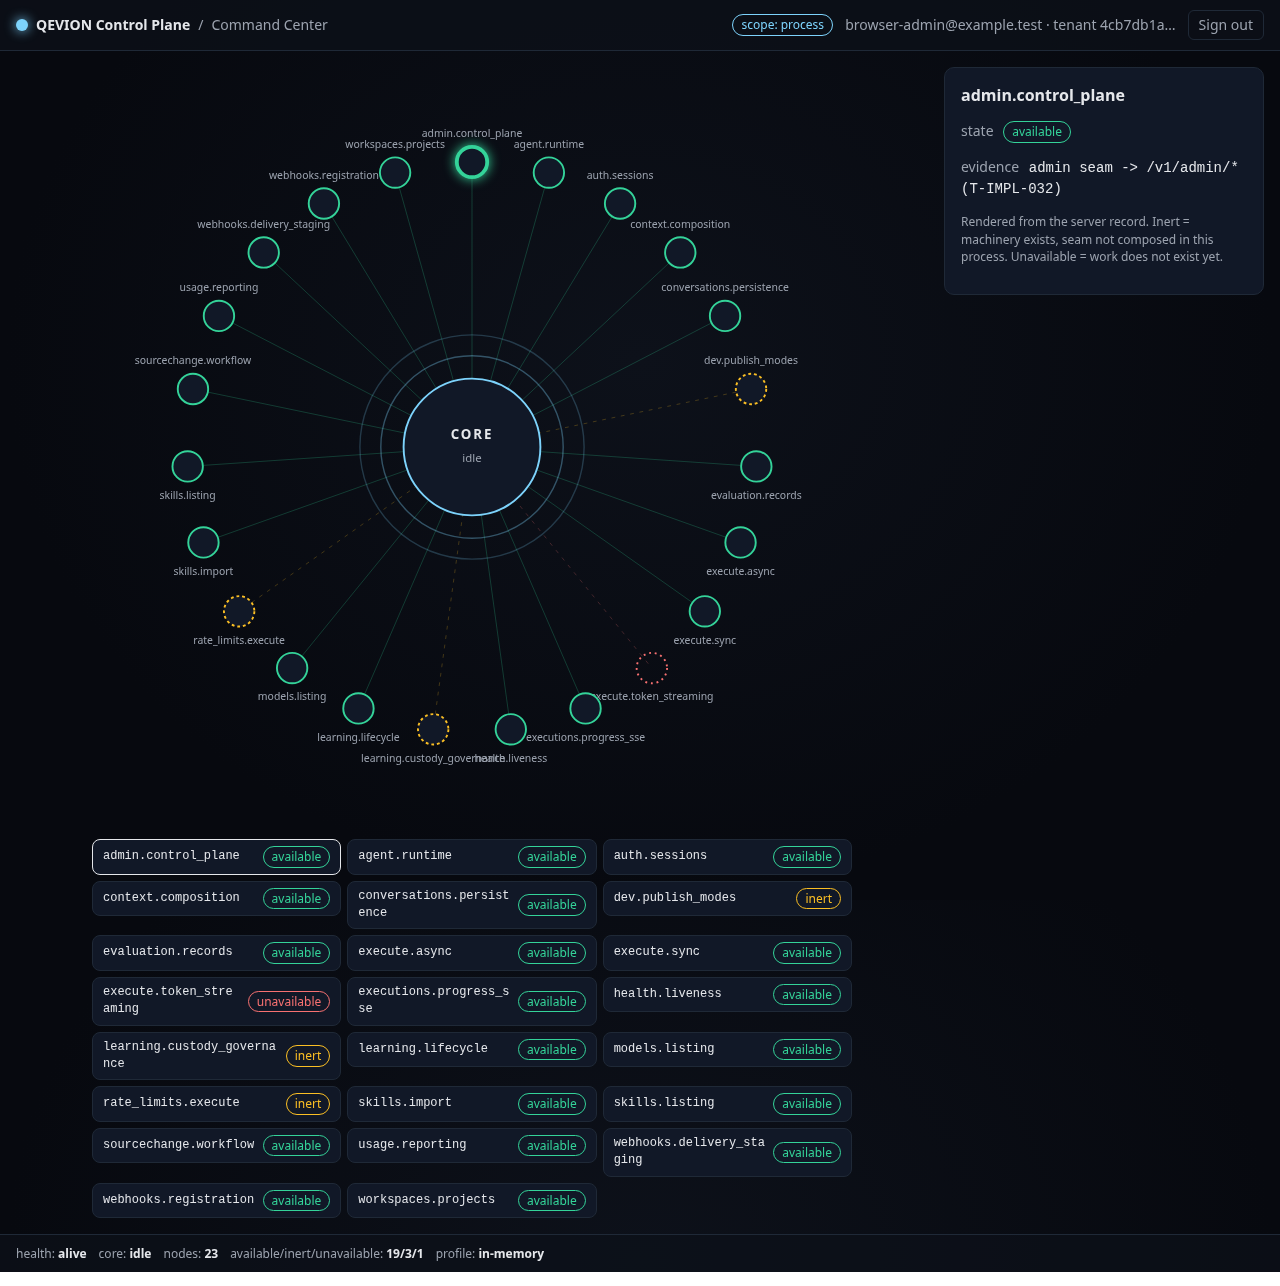
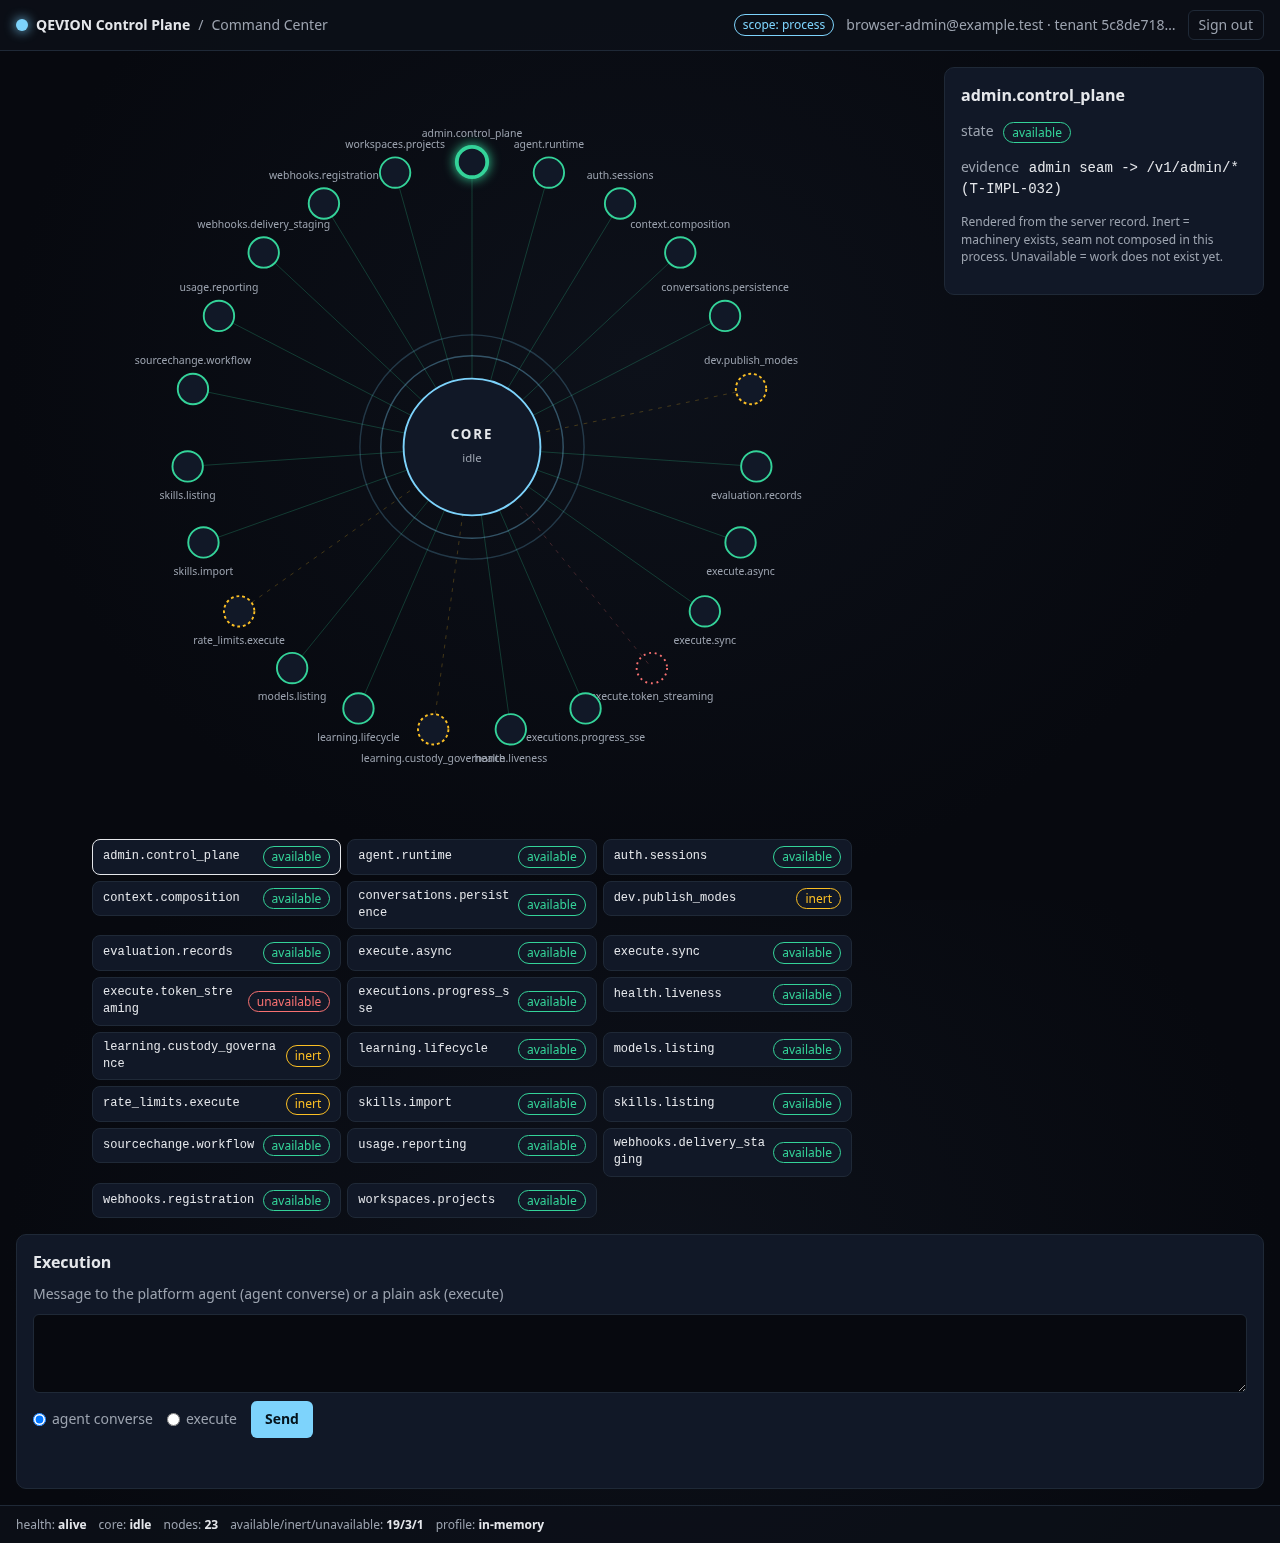
test(r182-impl M2): browser proof extended — execute turn via the UI form; stream frames [execution_started,node_started,node_completed,final], stage keys/states, status/percent equal the served record; 0 console errors; command_center_m2.png

diff --git a/tests/ui/test_command_center_browser_r182.py b/tests/ui/test_command_center_browser_r182.py
@@ -253,7 +253,66 @@ def test_rendered_nodes_equal_served_capabilities_in_a_real_browser(server: dict
         detail_evidence = page.text_content("#detail-evidence")
 
         page.screenshot(path=str(evidence_dir / "command_center_m1.png"), full_page=True)
+
+        # ---- M2 (HANDOFF §7 rows 8-11): one execute turn through the UI form. ----
+        page.fill("#converse-message", "browser proof m2")
+        page.check("input[name=converse-mode][value=execute]")
+        page.click("#converse-form button[type=submit]")
+        page.wait_for_function(
+            "() => { const l = document.querySelectorAll('#stream-log li'); "
+            "return l.length > 0 && ['final','error'].includes("
+            "l[l.length - 1].getAttribute('data-type')); }",
+            timeout=20000,
+        )
+        m2_frames = page.eval_on_selector_all(
+            "#stream-log li", "els => els.map(e => e.getAttribute('data-type'))"
+        )
+        m2_stage_states = page.eval_on_selector_all(
+            "#execution-graph .exec-stage", "els => els.map(e => e.getAttribute('data-state'))"
+        )
+        m2_stage_keys = page.eval_on_selector_all(
+            "#execution-graph .exec-stage", "els => els.map(e => e.getAttribute('data-node-key'))"
+        )
+        m2_status = page.text_content("#progress-status")
+        m2_percent = page.get_attribute("#progress-bar-track", "aria-valuenow")
+        m2_stage = page.text_content("#progress-stage")
+        m2_execution_id = page.text_content("#progress-execution-id")
+        m2_record = page.text_content("#execution-record")
+        m2_turns = page.eval_on_selector_all(
+            "#converse-turns li", "els => els.map(e => e.className)"
+        )
+        page.screenshot(path=str(evidence_dir / "command_center_m2.png"), full_page=True)
         browser.close()
+
+    # --- M2 assertions: the DOM equals the SERVED execution record ---------------
+    status, m2_login = _http(
+        "POST", f"{base}/v1/auth/login", {"email": ADMIN_EMAIL, "password": PASSWORD}
+    )
+    assert status == 200
+    status, m2_exec = _http(
+        "GET", f"{base}/v1/executions/{m2_execution_id}", token=m2_login["token"]
+    )
+    assert status == 200, (status, m2_exec)
+    status, m2_trace = _http(
+        "GET", f"{base}/v1/agent/executions/{m2_execution_id}/trace", token=m2_login["token"]
+    )
+    assert status == 200, (status, m2_trace)
+    assert set(m2_frames) <= {
+        "execution_started",
+        "node_started",
+        "node_completed",
+        "final",
+        "error",
+    }
+    assert "delta" not in m2_frames and "UNKNOWN_EVENT" not in m2_frames
+    assert m2_frames[0] == "execution_started" and m2_frames[-1] in ("final", "error")
+    assert m2_stage_keys == [s["node_key"] for s in m2_trace["stages"]]
+    assert m2_stage_states == [s["status"] for s in m2_trace["stages"]]
+    assert m2_status == m2_exec["status"]
+    assert m2_stage == m2_exec["progress"]["current_stage"]
+    assert m2_percent == str(m2_exec["progress"]["percent"])
+    assert f"as_recorded: {str(m2_trace['as_recorded']).lower()}" in m2_record
+    assert m2_turns == ["turn turn-request", "turn turn-response"]
 
     # --- assertions -------------------------------------------------------------
     assert len(graph_ids) == len(served_ids), (len(graph_ids), len(served_ids))
@@ -294,6 +353,14 @@ def test_rendered_nodes_equal_served_capabilities_in_a_real_browser(server: dict
                 "scope_badge": scope_badge,
                 "requests": sorted({m + " " + u[len(base) :].split("?")[0] for m, u in requests}),
                 "console_errors": console_errors,
+                "m2": {
+                    "stream_frames_in_order": m2_frames,
+                    "stage_keys": m2_stage_keys,
+                    "stage_states": m2_stage_states,
+                    "execution_status": m2_status,
+                    "progress_percent": m2_percent,
+                    "as_recorded_shown": "as_recorded:" in m2_record,
+                },
             },
             indent=2,
         )
